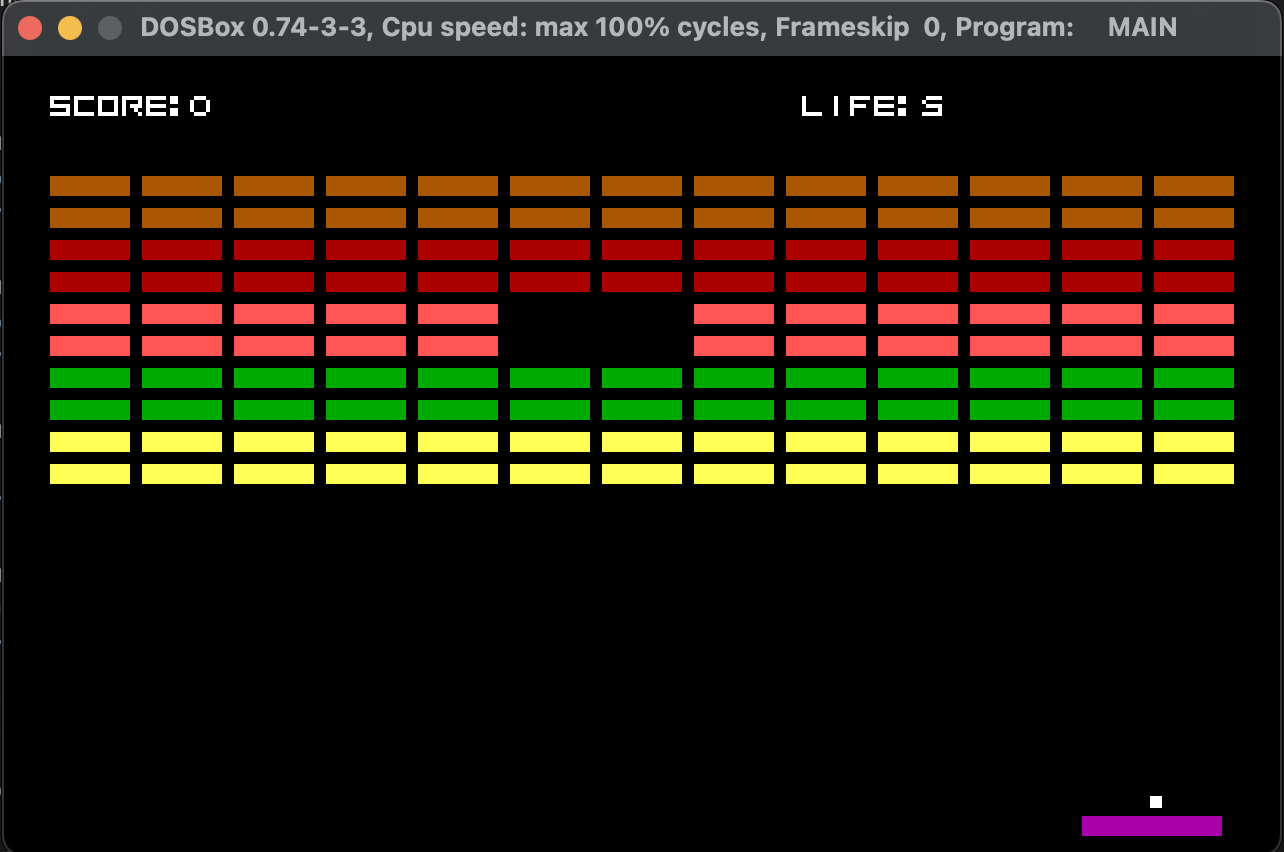
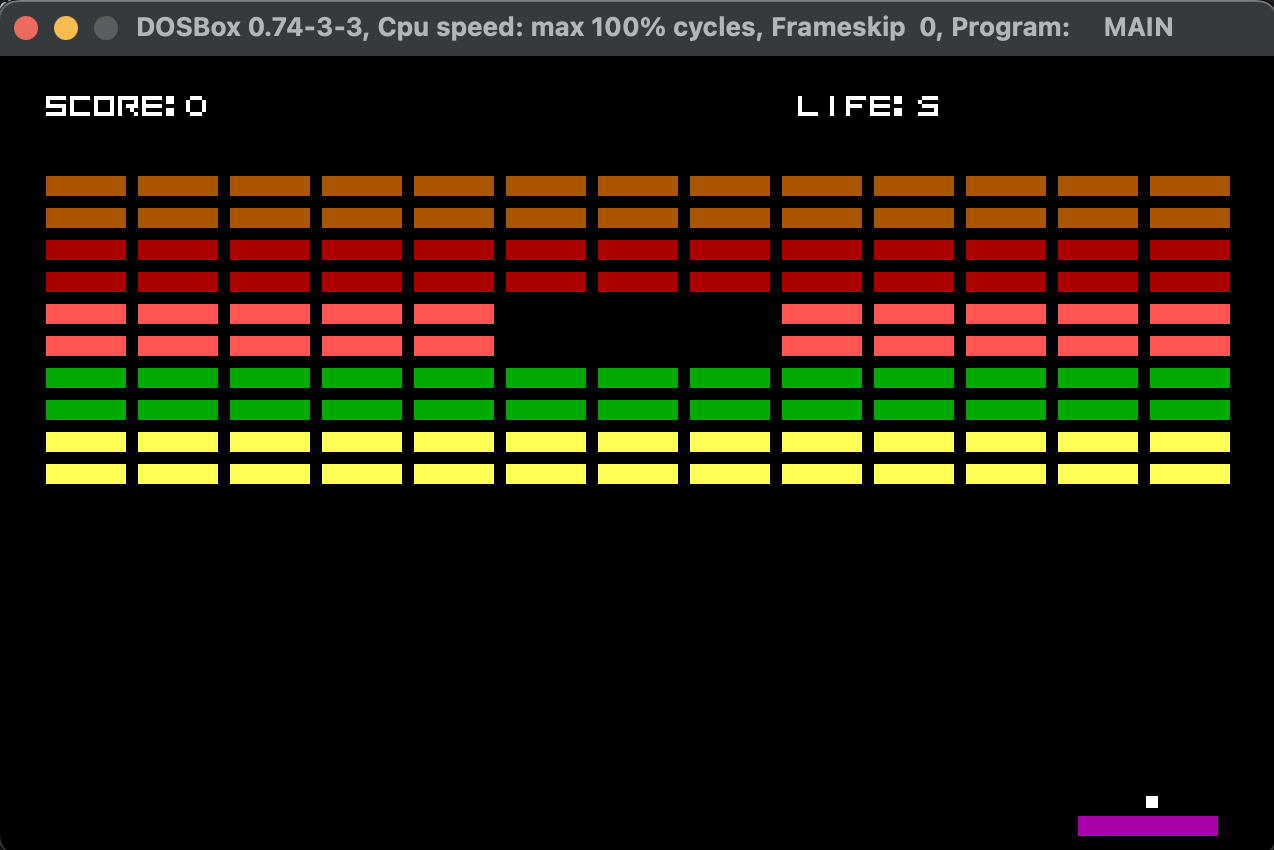
refactor(LEVELS): minor fix

diff --git a/SRC/LEVELS.H b/SRC/LEVELS.H
@@ -20,8 +20,8 @@ static const int levelTwo[ROW][COL] = {
         {6,6,6,6,6,6,6,6,6,6,6,6,6},
         {4,4,4,4,4,4,4,4,4,4,4,4,4},
         {4,4,4,4,4,4,4,4,4,4,4,4,4},
-        {12,12,12,12,12,0,0,12,12,12,12,12,12},
-        {12,12,12,12,12,0,0,12,12,12,12,12,12},
+        {12,12,12,12,12,0,0,0,12,12,12,12,12},
+        {12,12,12,12,12,0,0,0,12,12,12,12,12},
         {2,2,2,2,2,2,2,2,2,2,2,2,2},
         {2,2,2,2,2,2,2,2,2,2,2,2,2},
         {14,14,14,14,14,14,14,14,14,14,14,14,14},
@@ -32,8 +32,8 @@ static const int levelThree[ROW][COL] = {
         {6,6,6,6,6,6,6,6,6,6,6,6,6},
         {4,0,0,4,4,4,4,4,4,4,0,0,4},
         {4,0,0,4,4,4,4,4,4,4,0,0,4},
-        {12,12,12,12,12,0,0,12,12,12,12,12,12},
-        {12,12,12,12,12,0,0,12,12,12,12,12,12},
+        {12,12,12,12,12,0,0,0,12,12,12,12,12},
+        {12,12,12,12,12,0,0,0,12,12,12,12,12},
         {2,0,0,2,2,2,2,2,2,2,0,0,2},
         {2,0,0,2,2,2,2,2,2,2,0,0,2},
         {14,14,14,14,14,14,14,14,14,14,14,14,14},
